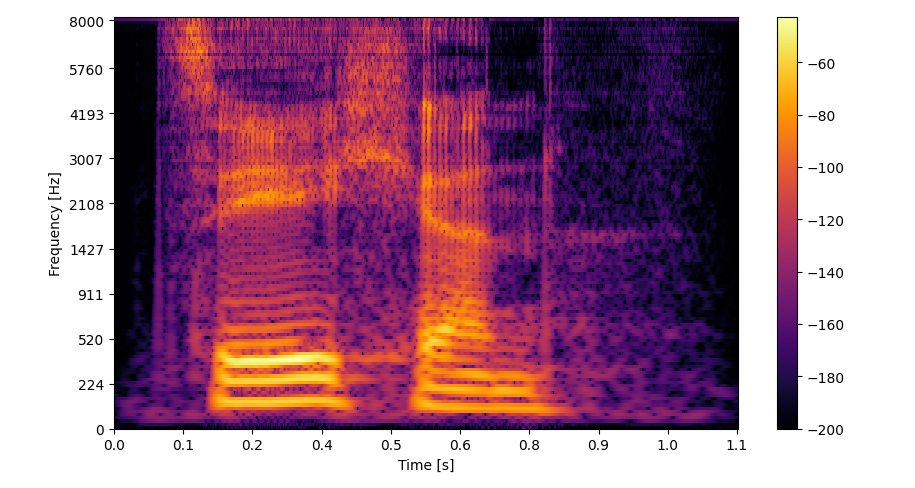
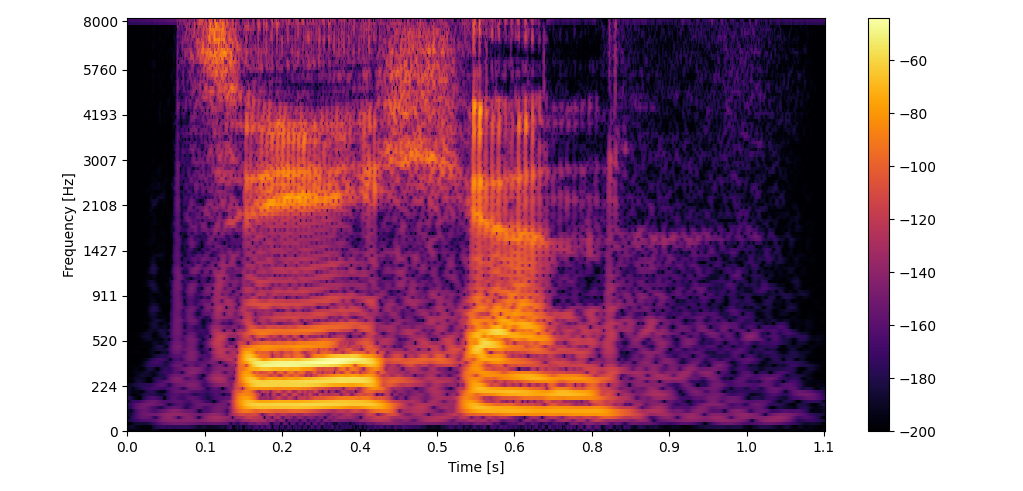
plots

diff --git a/hybra/utils.py b/hybra/utils.py
@@ -697,6 +697,9 @@ def audfilters(kernel_size:Union[int,None]=None, num_channels:int=96, fc_max:Uni
     for m in range(1, num_channels - 1):
         g[m,:] = torch.sqrt(d) * modulate(firwin(tsupp[m], kernel_size), fc[m], fs)
 
+    _, B = frame_bounds(g, d, Ls)
+    g = g / B
+
     return g, int(d), fc, fc_min, fc_max, kernel_min, kernel_size, Ls
 
 ####################################################################################################
